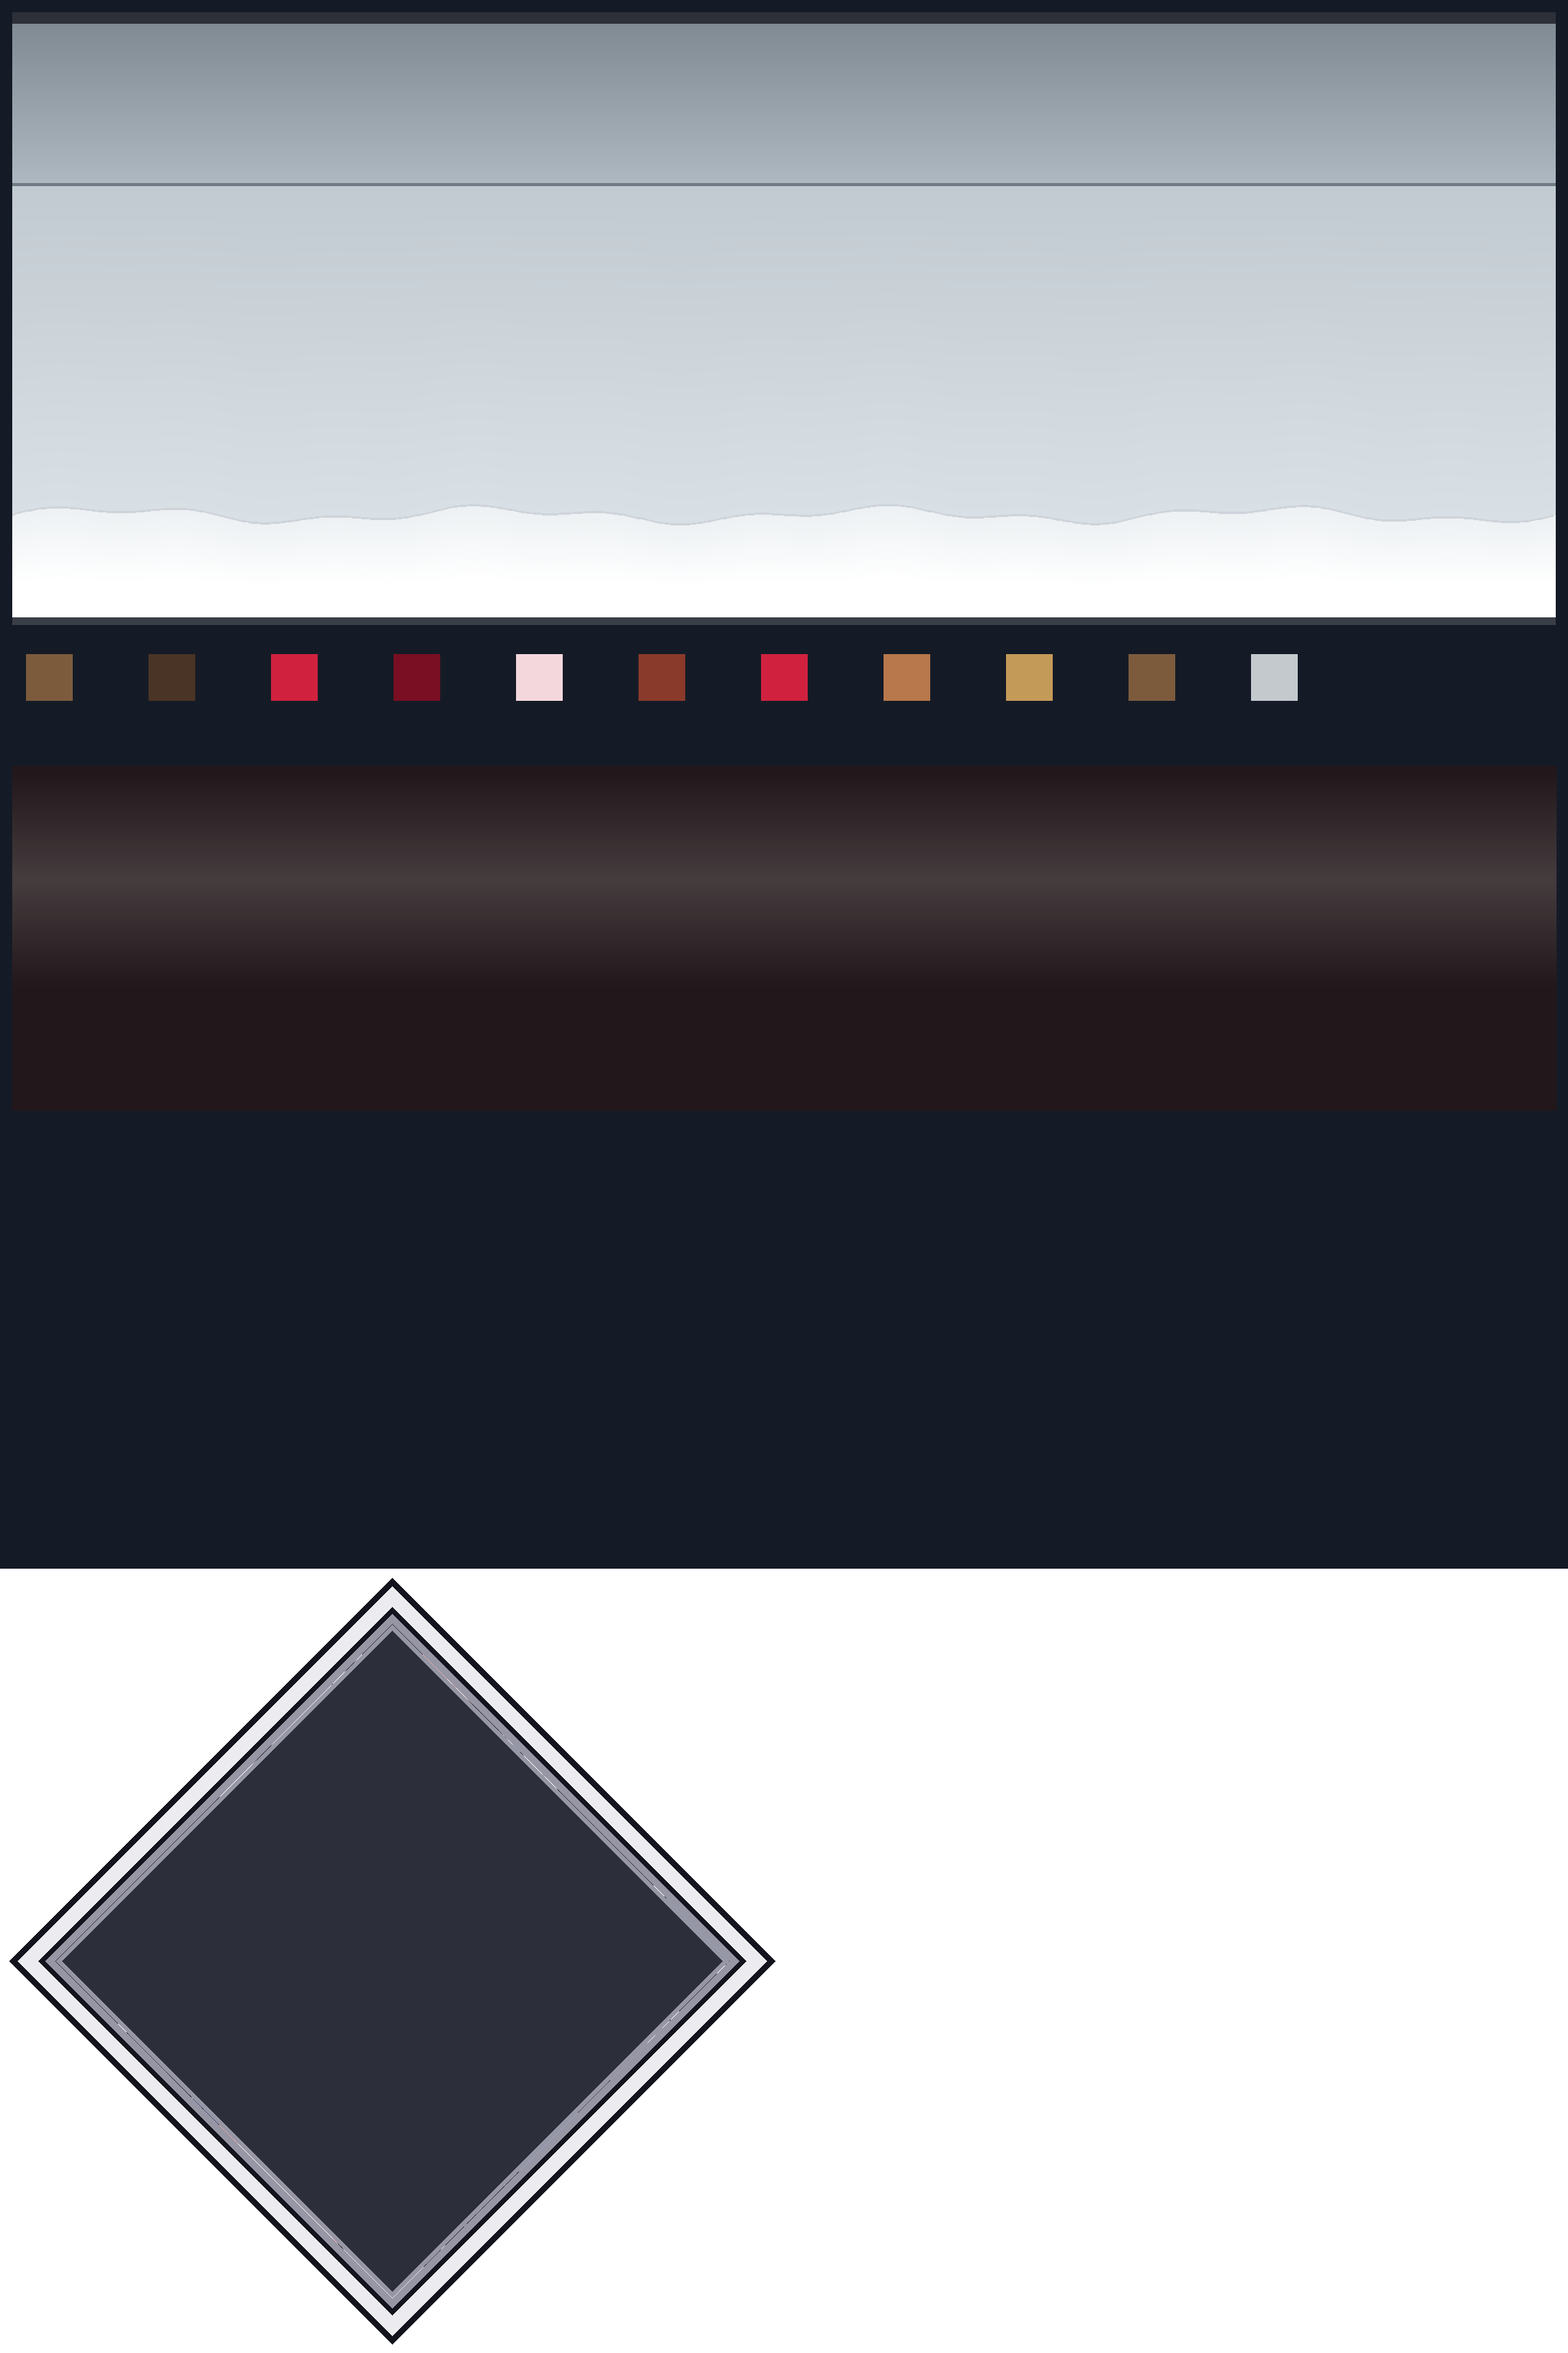
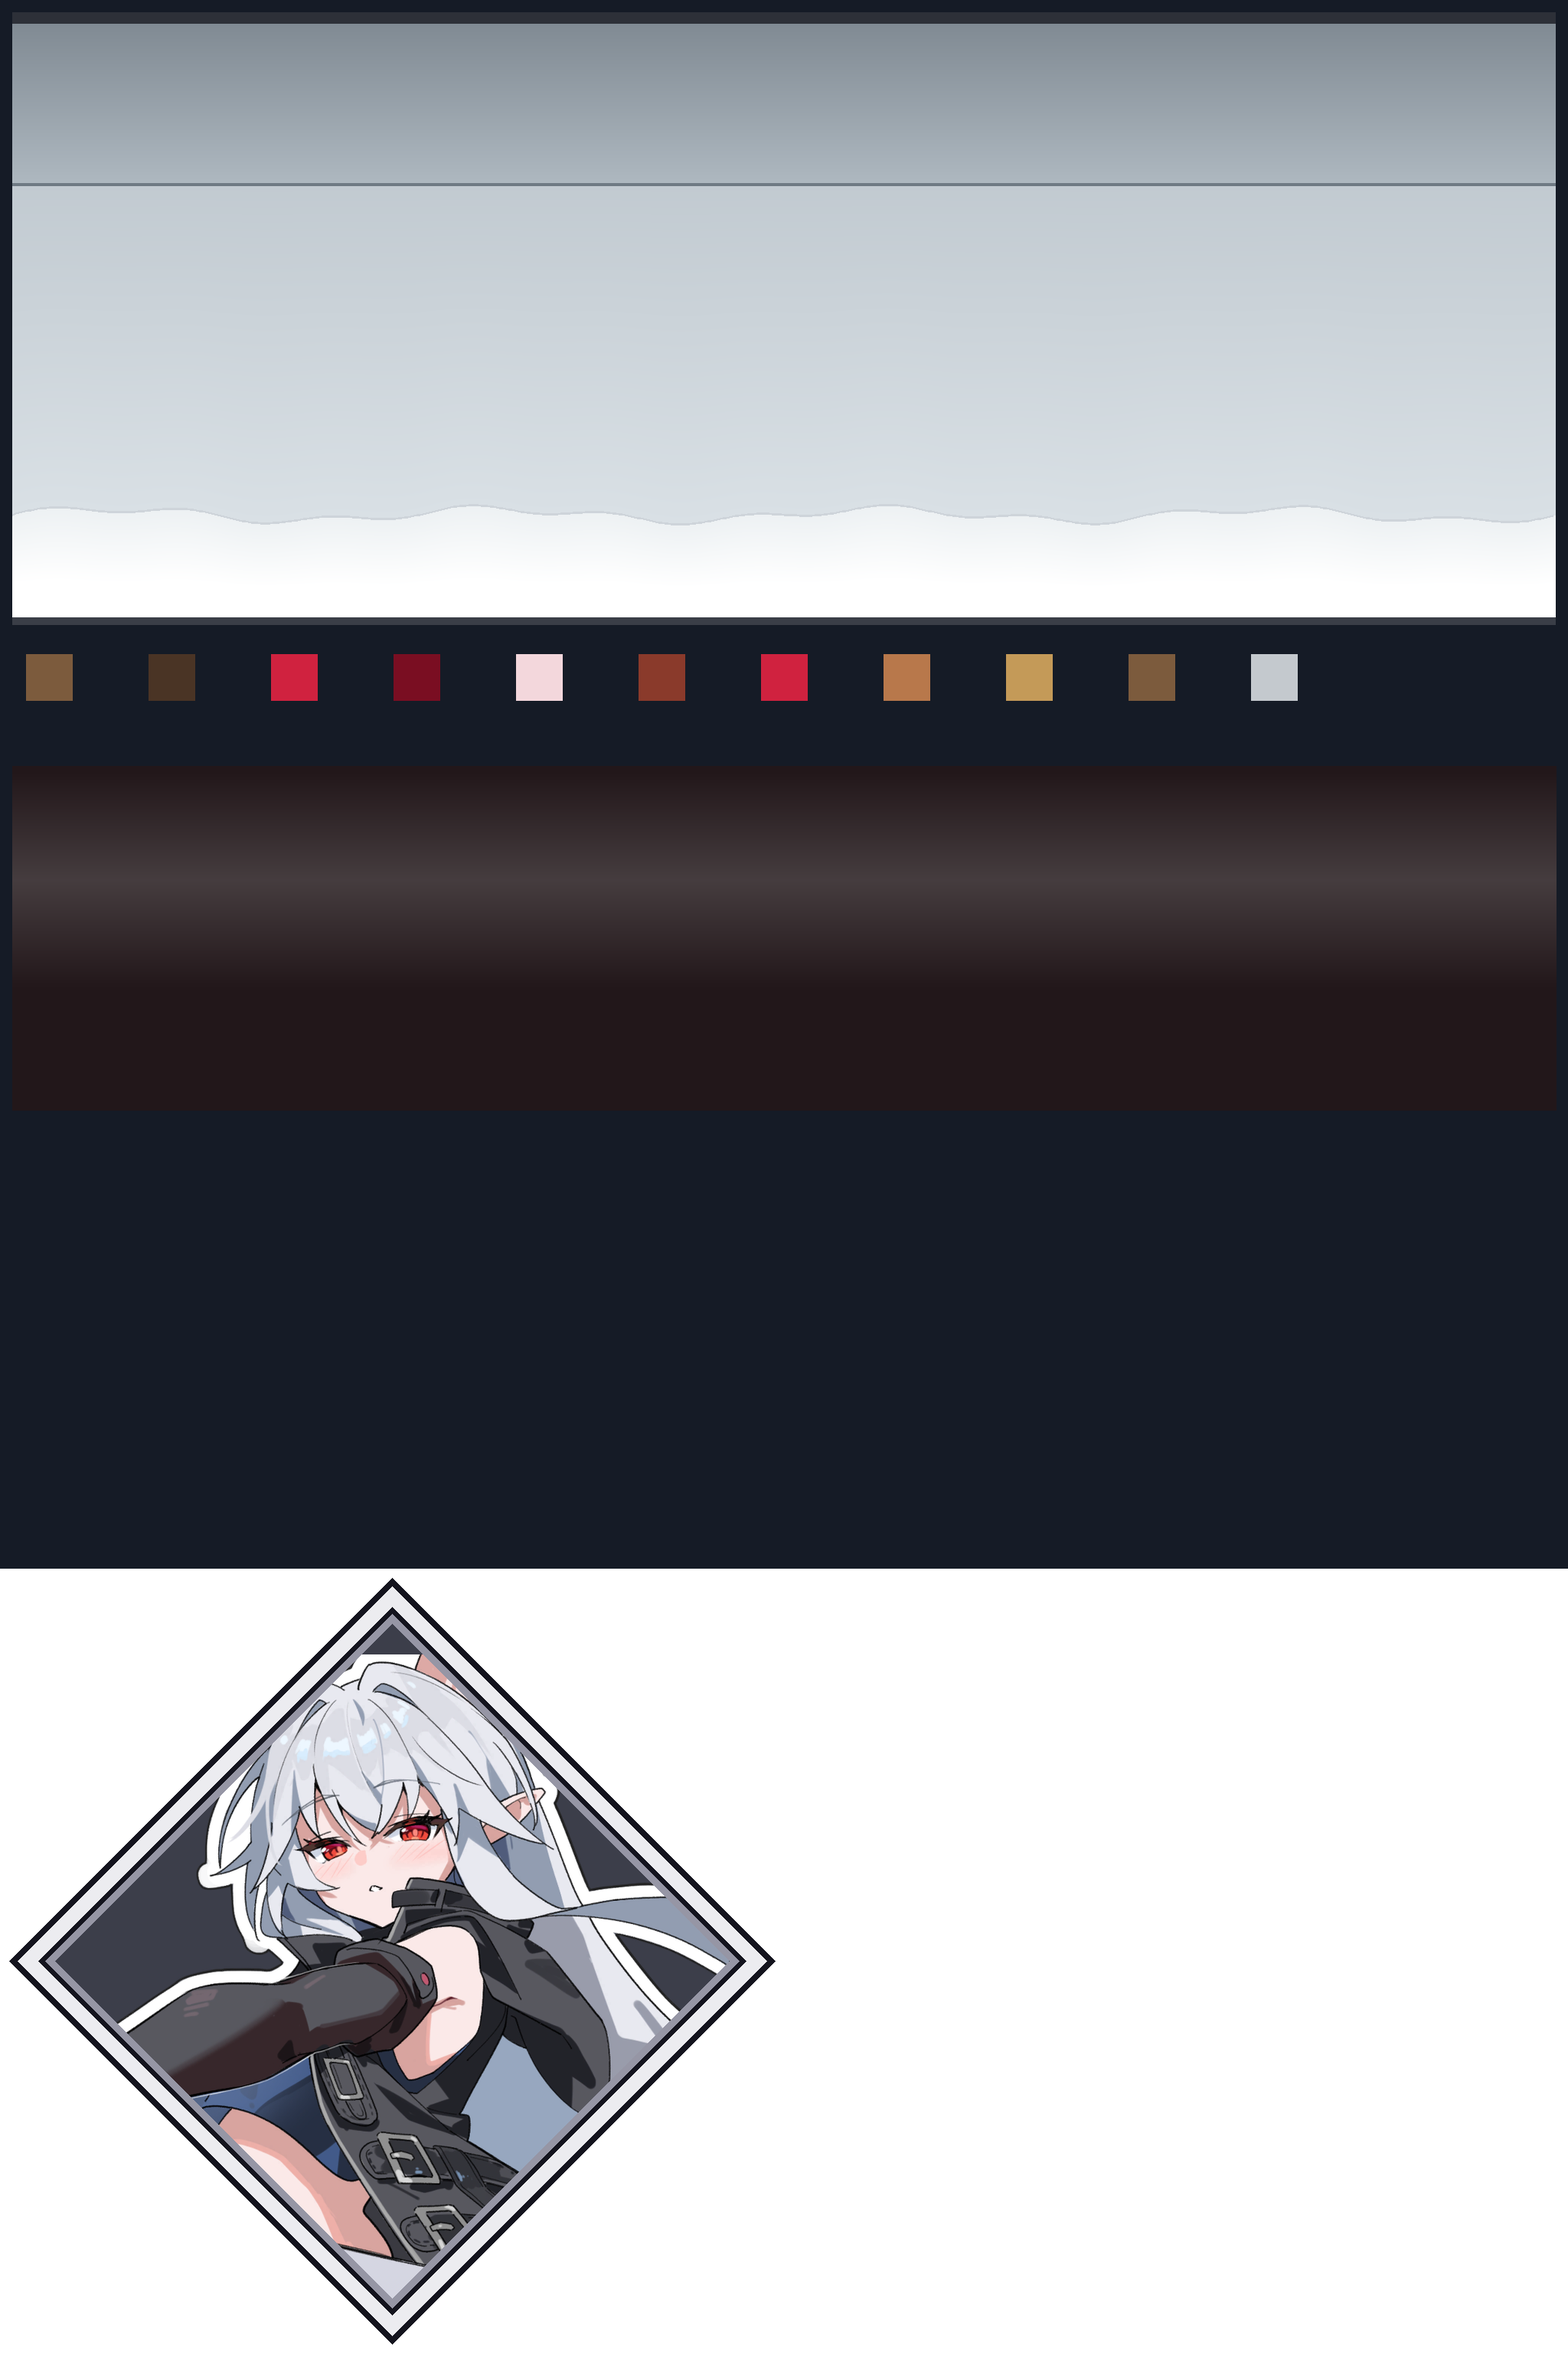
1.0.4：恢复五阶太刀物品栏美咲立绘图标

Changed region(s): [[0.0625, 0.6875, 0.4688, 0.9688], [0.0312, 0.8125, 0.0625, 0.8438]]

diff --git a/README.md b/README.md
@@ -1,6 +1,6 @@
 # 美咲的太刀：真龙御礼
 
-> 拔刀剑 Resharped 附属模组 · Minecraft 1.20.1 Forge · 模组 ID `misaki_goryo` · 版本 1.0.3
+> 拔刀剑 Resharped 附属模组 · Minecraft 1.20.1 Forge · 模组 ID `misaki_goryo` · 版本 1.0.4
 >
 > 本模组为《吉星派对》同人作品，与《吉星派对》官方无关。
 
@@ -143,7 +143,7 @@
 
 - 本模组为《吉星派对》同人作品。龙崎美咲、三神教、联合城等角色与设定的权利归《吉星派对》官方所有。
 - 代码以 MIT 许可发布；内置原作语音的权利归原作及相关权利人所有，不属代码 MIT 许可。
-- 刀的模型和刀身贴图为本模组制作，造型参照《吉星派对》原作；物品图标框里不含任何原作卡面图片。
+- 刀的模型和刀身贴图为本模组制作，造型参照《吉星派对》原作；五个阶段太刀的物品栏菱形图标使用原作美咲立绘，立绘权利归原作及相关权利人所有，不适用代码 MIT 许可。
 - 刀灵美咲的两张皮肤来自 AstralCraft（Glyceryl6/AstralCraft），该项目声明为 MIT 许可，并致谢「哈基尽：部分贴图」；闭眼皮肤在其基础上修改。详细来源见 jar 内的 `NOTICE.txt`。
 - 欢迎在整合包中使用，转载请注明出处。
 

diff --git a/CHANGELOG.md b/CHANGELOG.md
@@ -1,5 +1,9 @@
 # 更新日志
 
+## 1.0.4
+
+- 恢复五个阶段太刀在物品栏中的美咲立绘菱形图标，使用原始贴图。
+
 ## 1.0.3
 
 - 内置龙崎美咲的中文、日文原音，默认中文，可在客户端配置中切换，无需另装资源包。
